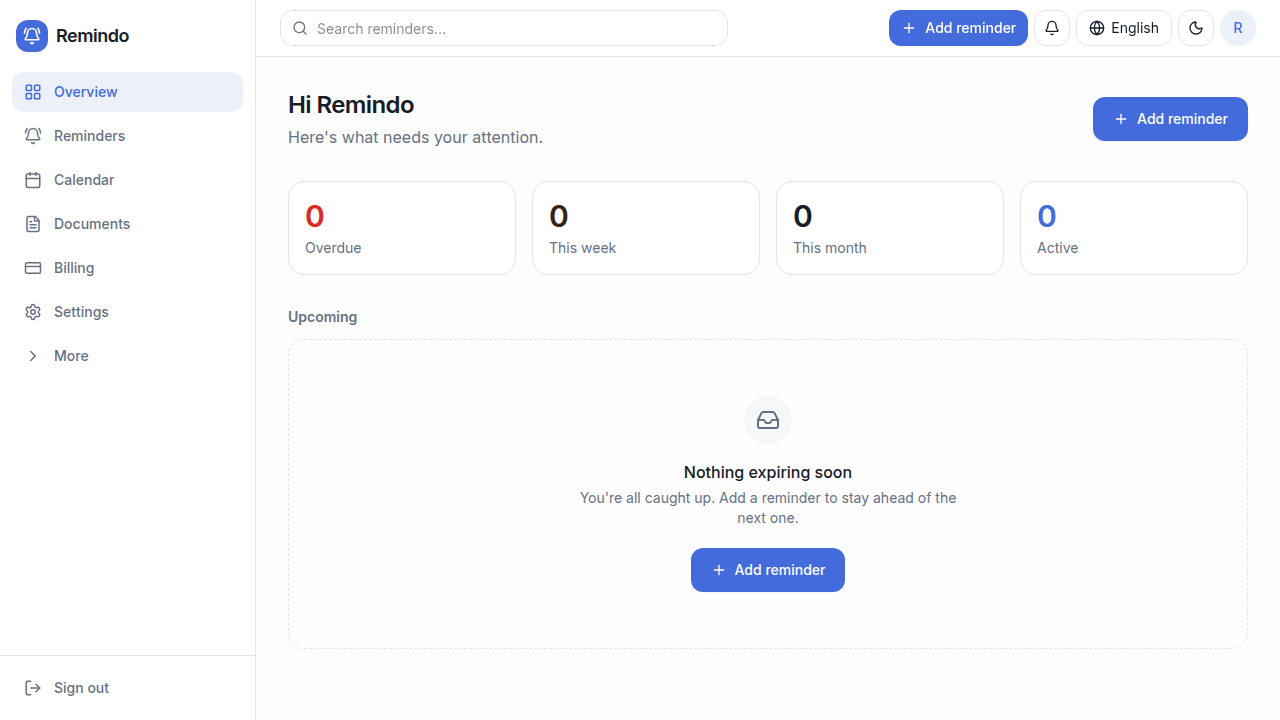
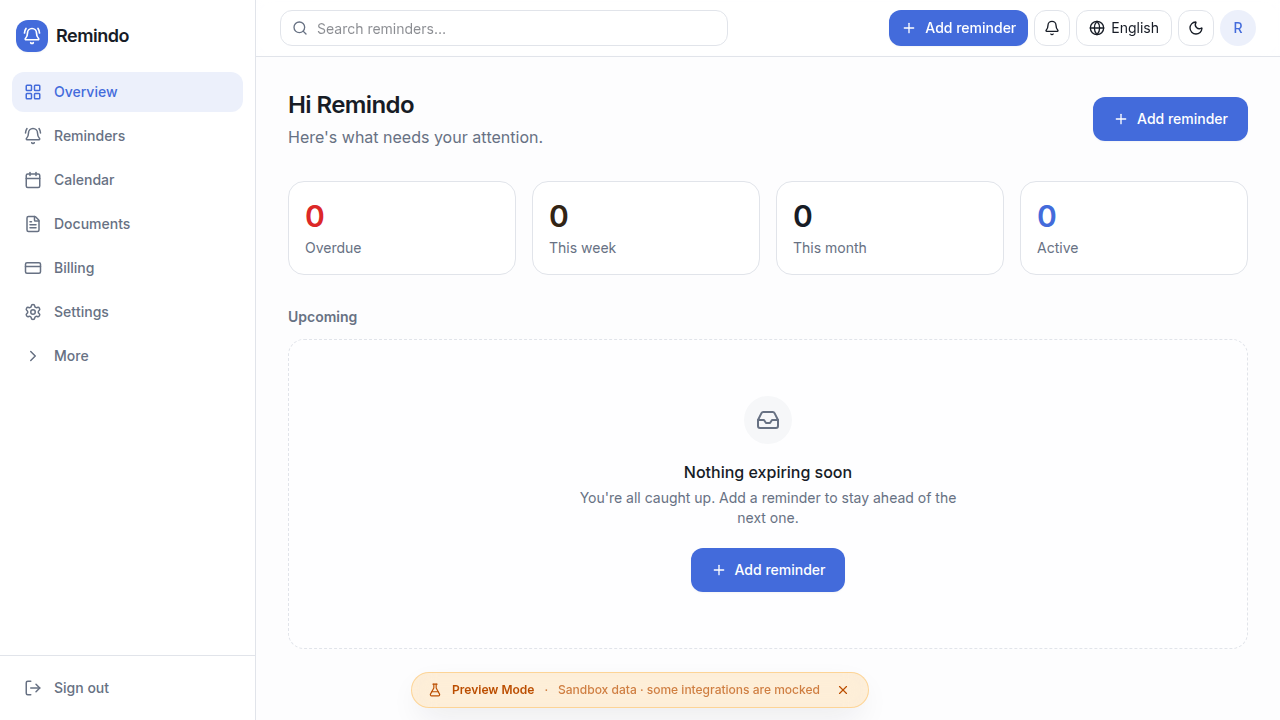
fix(preview): correct mail-capture double-fire and badge click interception
Found while verifying the deployed build end-to-end:
- CaptureMailPreview was registered twice (Laravel event auto-discovery
  + an explicit Event::listen), capturing every email twice. Drop the
  explicit registration and rely on auto-discovery.
- The PreviewBadge pill intercepted pointer events, blocking clicks on
  controls beneath it (e.g. a dialog's Save button). Make the container
  and pill pointer-events-none; only the dismiss button is interactive.
  Lower its z-index below modals.
- Update the admin E2E login to the new AdminPass123! preview password
  and refresh deployed-build screenshots (+ login/mail-log captures).

Verified: migrate --force, optimize (config/route/view cache), a
persistent queue worker + scheduler, production build, and all 10
Playwright specs green against the built app + live API.

Claude-Session: https://claude.ai/code/session_01Pre6fXgTUV2ZJMdKS39kDq

Changed region(s): [[0.3125, 0.9167, 0.6875, 1.0]]

diff --git a/frontend/src/components/preview-badge.tsx b/frontend/src/components/preview-badge.tsx
@@ -15,9 +15,12 @@ export function PreviewBadge() {
 
   if (process.env.NEXT_PUBLIC_PREVIEW_MODE !== "true" || hidden) return null;
 
+  // The pill is decorative and must never intercept clicks on the UI beneath it
+  // (e.g. a Save button at the bottom of a dialog): the container and the pill
+  // are pointer-events-none; only the dismiss button re-enables pointer events.
   return (
-    <div className="fixed inset-x-0 bottom-0 z-[100] flex justify-center px-3 pb-3 pointer-events-none">
-      <div className="pointer-events-auto flex items-center gap-2.5 rounded-full border border-amber-500/30 bg-amber-500/15 px-4 py-2 text-xs font-medium text-amber-700 shadow-lg backdrop-blur-md dark:text-amber-300">
+    <div className="pointer-events-none fixed inset-x-0 bottom-0 z-40 flex justify-center px-3 pb-3">
+      <div className="pointer-events-none flex items-center gap-2.5 rounded-full border border-amber-500/30 bg-amber-500/15 px-4 py-2 text-xs font-medium text-amber-700 shadow-lg backdrop-blur-md dark:text-amber-300">
         <FlaskConical className="size-3.5 shrink-0" />
         <span className="font-semibold">{t("previewMode")}</span>
         <span className="hidden text-amber-700/70 sm:inline dark:text-amber-300/70">·</span>
@@ -28,7 +31,7 @@ export function PreviewBadge() {
           type="button"
           aria-label="Dismiss"
           onClick={() => setHidden(true)}
-          className="ms-1 rounded-full p-0.5 hover:bg-amber-500/20"
+          className="pointer-events-auto ms-1 rounded-full p-0.5 hover:bg-amber-500/20"
         >
           <X className="size-3.5" />
         </button>

diff --git a/frontend/e2e/screenshots.spec.ts b/frontend/e2e/screenshots.spec.ts
@@ -24,7 +24,7 @@ test("capture marketing", async ({ page }) => {
 test("capture admin", async ({ page }) => {
   await page.goto("/en/login");
   await page.getByLabel("Email").fill("admin@remindo.me");
-  await page.getByLabel("Password", { exact: true }).fill("password123");
+  await page.getByLabel("Password", { exact: true }).fill("AdminPass123!");
   await page.getByRole("button", { name: /sign in/i }).click();
   await page.waitForURL(/\/en\/dashboard/, { timeout: 15000 });
   await page.goto("/en/admin");

diff --git a/backend/app/Providers/AppServiceProvider.php b/backend/app/Providers/AppServiceProvider.php
@@ -5,11 +5,9 @@ namespace App\Providers;
 use App\Contracts\CalendarProvider;
 use App\Contracts\DocumentExtractor;
 use App\Contracts\PaymentGateway;
-use App\Listeners\CaptureMailPreview;
 use App\Services\AI\MockDocumentExtractor;
 use App\Services\Calendar\NullCalendarProvider;
 use App\Services\Payments\SandboxGateway;
-use Illuminate\Mail\Events\MessageSending;
 use Illuminate\Support\Facades\Event;
 use Illuminate\Support\ServiceProvider;
 use SocialiteProviders\Manager\SocialiteWasCalled;
